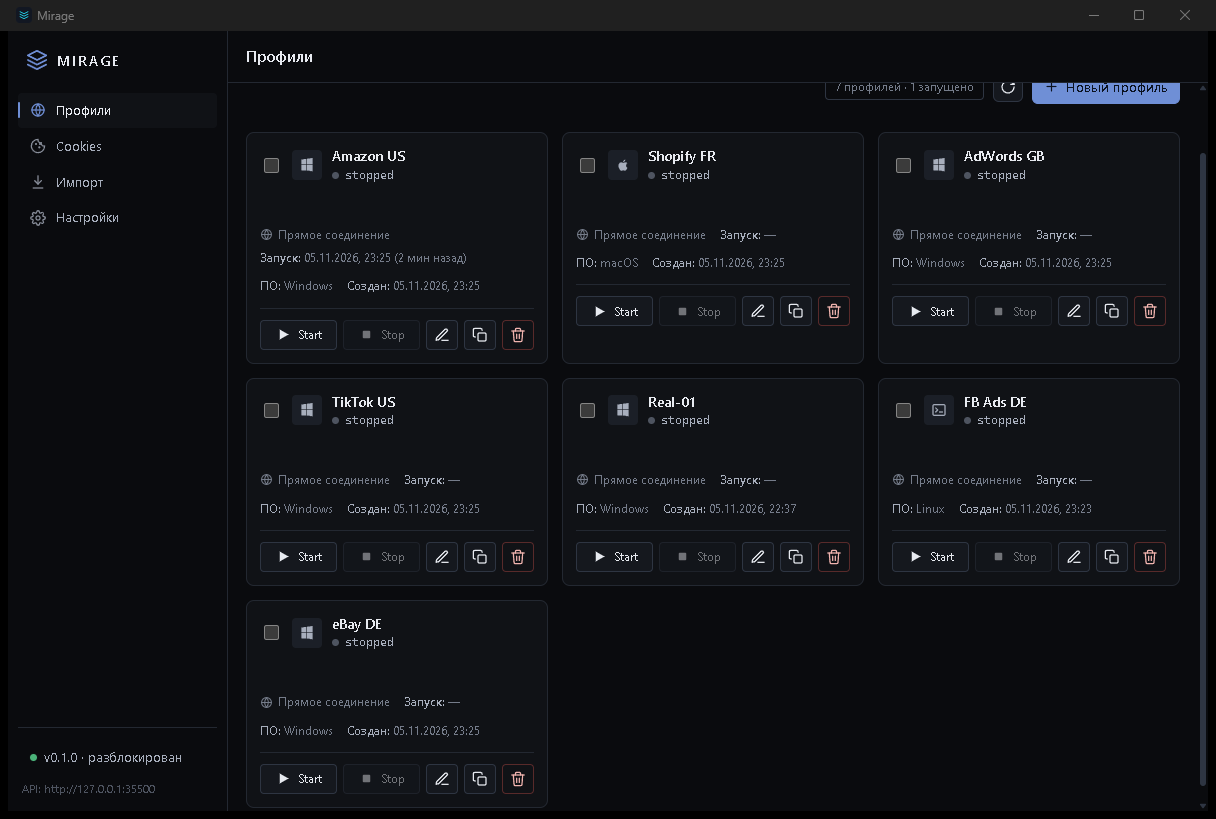
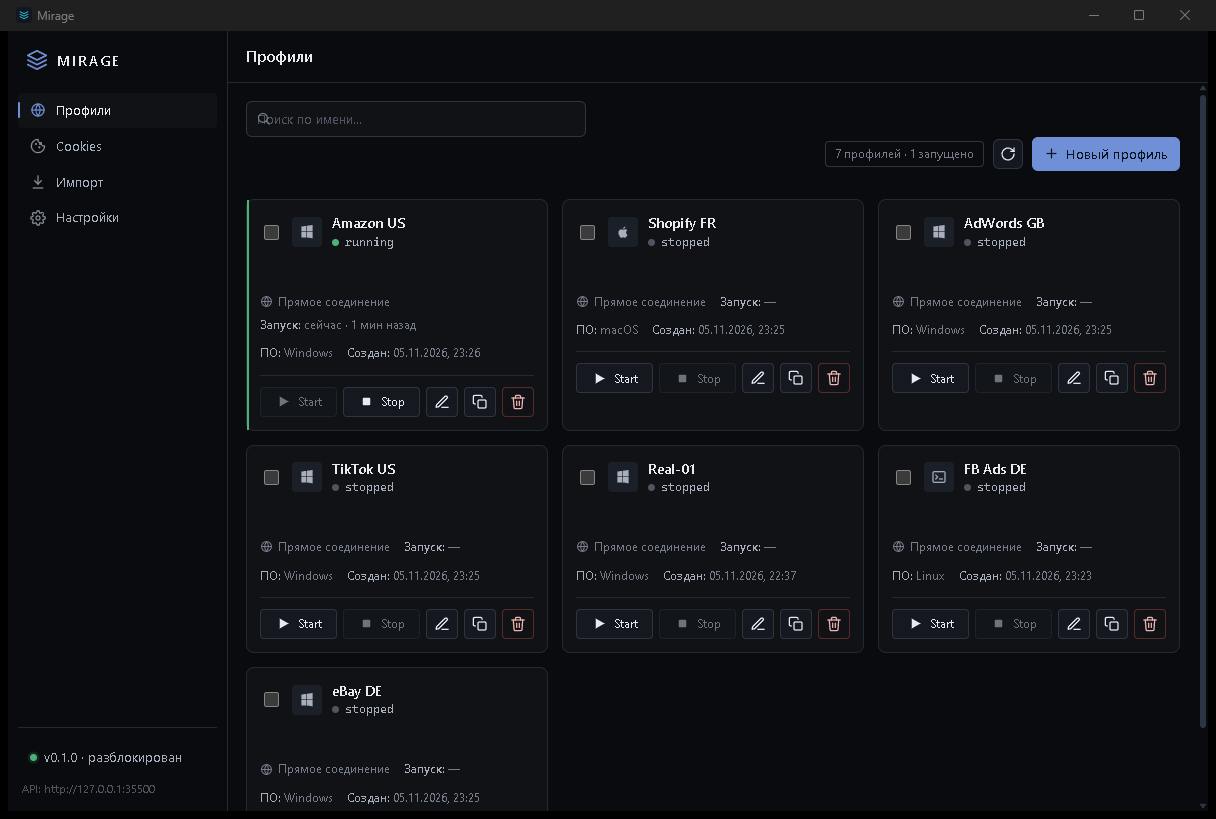
launcher: drop needless mut bindings on CDP clients

diff --git a/crates/mirage-launcher/tests/auto_attach_live.rs b/crates/mirage-launcher/tests/auto_attach_live.rs
@@ -47,7 +47,7 @@ async fn new_tab_is_spoofed() {
     // A second, independent browser-level connection used only to create and
     // probe the new tab; the spoofing itself is done by the launcher's own
     // auto-attach task on its own connection.
-    let mut control = CdpClient::attach(&browser.ws_url)
+    let control = CdpClient::attach(&browser.ws_url)
         .await
         .expect("control attach");
     let created = control
@@ -62,7 +62,7 @@ async fn new_tab_is_spoofed() {
     let deadline = Instant::now() + Duration::from_secs(15);
     let mut last = String::new();
     let spoofed = loop {
-        if let Ok(mut page) = CdpClient::attach(&page_ws).await {
+        if let Ok(page) = CdpClient::attach(&page_ws).await {
             if let Ok(result) = page
                 .send(
                     "Runtime.evaluate",

diff --git a/crates/mirage-launcher/examples/dump_native.rs b/crates/mirage-launcher/examples/dump_native.rs
@@ -51,7 +51,7 @@ async fn main() -> anyhow::Result<()> {
         tokio::time::sleep(Duration::from_millis(200)).await;
     };
 
-    let mut cdp = CdpClient::attach(&page.ws_url).await?;
+    let cdp = CdpClient::attach(&page.ws_url).await?;
     cdp.send("Page.enable", json!({})).await?;
     // Localhost origin => secure context => userAgentData is exposed, and no
     // external network is needed: the DevTools endpoint serves the page.
